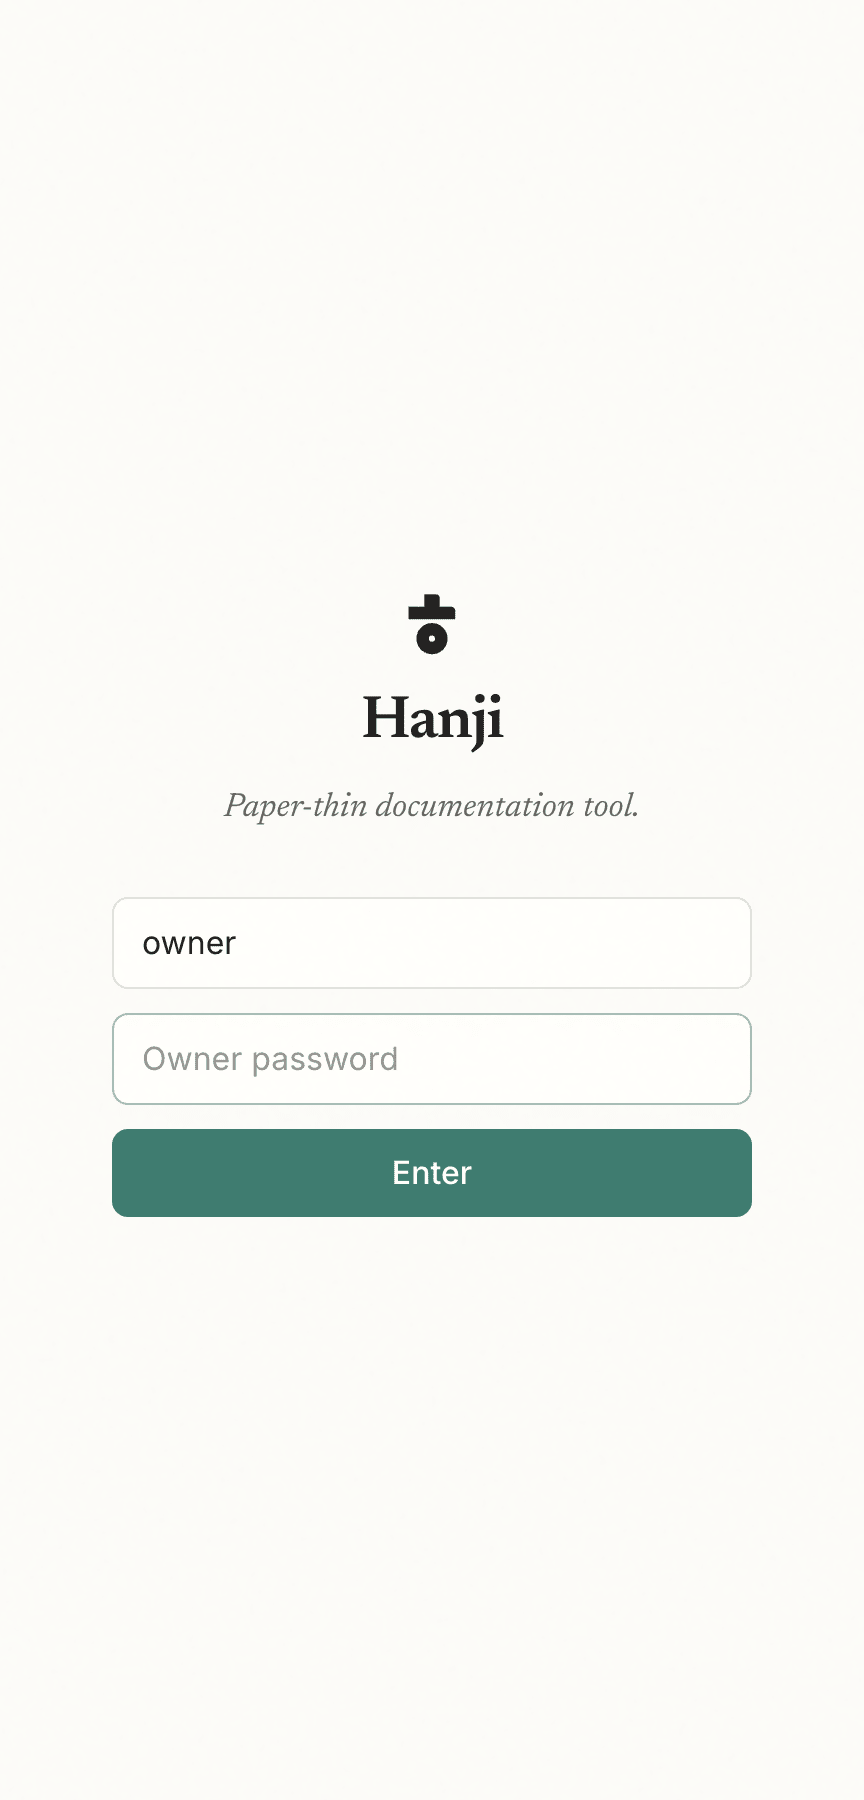
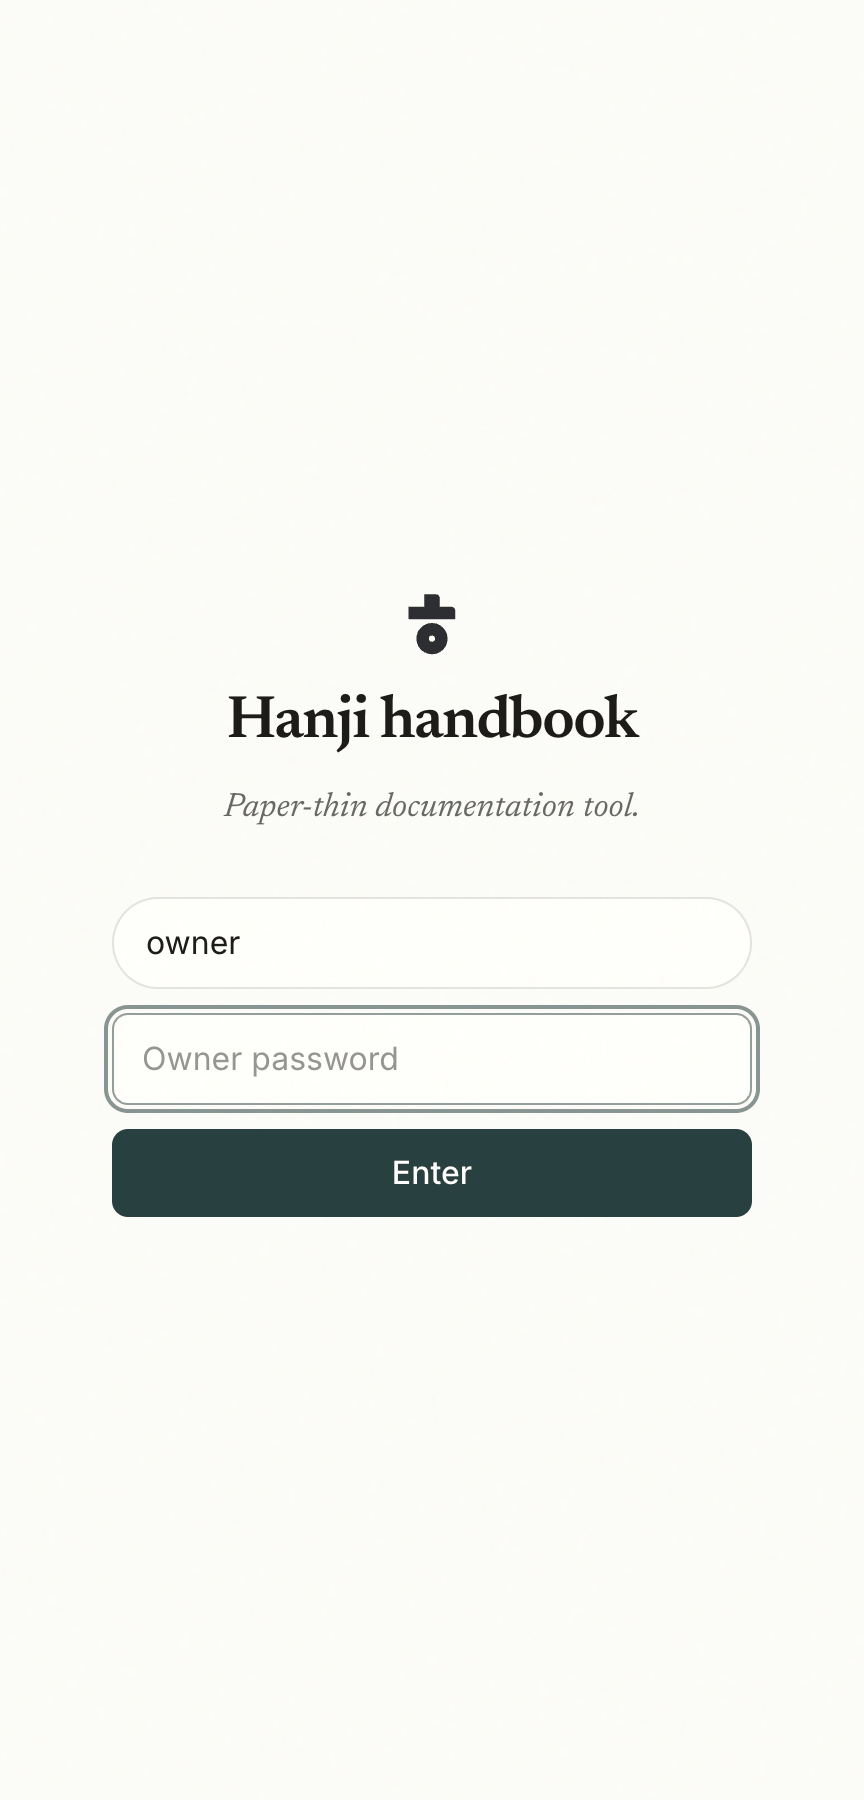
Published with Hanji

Changed region(s): [[0.0938, 0.4978, 0.9062, 0.6844], [0.25, 0.3733, 0.7188, 0.4356]]

diff --git a/handbook/changelog/index.html b/handbook/changelog/index.html
@@ -20,6 +20,31 @@
 <p class="crumbs"><a href="../">handbook</a> / changelog</p>
 <article><h1>Changelog</h1>
 <p>Reverse chronological. Struck-through text is a decision we made and then moved past, kept visible on purpose, because a changelog that hides its own wrong turns is just marketing.</p>
+<h2>Settings, in four calm rooms</h2>
+<ul>
+<li>Appearance itself found its order: <strong>Mode</strong>, <strong>Colors</strong> (light and dark palettes as quiet labeled rows), <strong>Reading font</strong>, and <strong>Reading surface</strong> - width and text size together at last, sharing one live specimen instead of each section carrying its own.</li>
+<li>The dense Customization tab split in two: <strong>General</strong> (workspace, working mode, sidebar) and <strong>Appearance</strong> (mode, colors, reading surface), beside People and Mount access. Each room saves itself; the divider between the page header and the tabs retired - space does that job.</li>
+<li>The color controls went on a diet: circular swatches, and one quiet line naming only what the contrast pass actually adjusted. <del>A per-mode card restating every color that was "kept as given"</del> - the page itself is the live preview, and a card full of nothing-happened rows was noise.</li>
+</ul>
+<h2>The sidebar finds its depth</h2>
+<ul>
+<li>The sidebar sits on its own surface now: a breath darker than the page in both modes, derived from the same background seed - panels told apart by tone, with the hairline kept only at the scroll boundary.</li>
+<li>The workspace lockup calmed down: one steady size at medium weight beside the mark, both on the same 24px line, so the pair centers optically at any name length. <del>Two sizes stepped by name length</del> - the step was why long names never quite aligned.</li>
+<li>The page's delete button joined its neighbors: the same bordered chip family as Share, with a danger tint drawn from one token that reads in both modes. <del>hover:bg-red-50</del> was a light-mode assumption glowing in the dark.</li>
+</ul>
+<h2>Night gets a personality, fields get a hand</h2>
+<ul>
+<li>Every workspace's dark background was the same cool slate, no matter what its light background said - the derivation used a constant. Auto-dark now keeps the light background's own hue at a quiet fraction of its chroma, anchored deep: a warm workspace has a warm night, a green one a green night. Detached dark seeds are untouched.</li>
+<li>Fields and dropdowns wear the full-round pill now, one silhouette and one height across the app - a small Korean hand in the chrome. Selects drop the native arrow for a quiet chevron with honest room on the right.</li>
+<li>Fewer hairlines, more air: the settings sections separate by space and their serif headings, table rows drop their per-row rules for a soft ink-tint hover, and dividers remain only where they mark a real boundary - the sidebar's scroll limits, the tab bar, the action row.</li>
+</ul>
+<h2>The details pass</h2>
+<ul>
+<li>Search snippets read as prose now: frontmatter fences, heading marks, wikilink brackets, table pipes, and backticks are quieted before display - in the palette, on the results page, and in what agents receive.</li>
+<li>Closing a sheet no longer leaves an invisible wall behind: the scrim stops catching clicks the moment the exit animation starts, so the next click lands where you aimed it.</li>
+<li>Redirects after sign-in and settings saves stay on the exact host you are on. Rebuilding them from the request could respell 127.0.0.1 as localhost, and the session cookie does not follow a respelled host.</li>
+<li>Smaller courtesies: people rows wear their initial on a small paper seal, the logo uploader lost the browser's "No file chosen" caption, the editor's source card holds its label inside itself in both modes, the emoji button became an outline glyph in the toolbar's own ink, a page with no history yet stops holding an empty seat where the byline would sit, and keyboard focus shows one quiet accent ring everywhere.</li>
+</ul>
 <h2>curl counts as an agent</h2>
 <ul>
 <li>The MCP port grew plain-HTTP aliases for all four tools: <code>GET /pages</code>, <code>GET /page</code>, <code>GET /search</code>, <code>POST /propose</code> - same bearer token, same principal, same permission check, no JSON-RPC envelope and no stream framing to parse. A cron job with curl and a token is now a first-class agent; an unknown path answers with a map of the surface.</li>

diff --git a/handbook/changelog.md b/handbook/changelog.md
@@ -8,6 +8,31 @@ description: The road behind us, honestly logged.
 
 Reverse chronological. Struck-through text is a decision we made and then moved past, kept visible on purpose, because a changelog that hides its own wrong turns is just marketing.
 
+## Settings, in four calm rooms
+
+- Appearance itself found its order: **Mode**, **Colors** (light and dark palettes as quiet labeled rows), **Reading font**, and **Reading surface** - width and text size together at last, sharing one live specimen instead of each section carrying its own.
+- The dense Customization tab split in two: **General** (workspace, working mode, sidebar) and **Appearance** (mode, colors, reading surface), beside People and Mount access. Each room saves itself; the divider between the page header and the tabs retired - space does that job.
+- The color controls went on a diet: circular swatches, and one quiet line naming only what the contrast pass actually adjusted. ~~A per-mode card restating every color that was "kept as given"~~ - the page itself is the live preview, and a card full of nothing-happened rows was noise.
+
+## The sidebar finds its depth
+
+- The sidebar sits on its own surface now: a breath darker than the page in both modes, derived from the same background seed - panels told apart by tone, with the hairline kept only at the scroll boundary.
+- The workspace lockup calmed down: one steady size at medium weight beside the mark, both on the same 24px line, so the pair centers optically at any name length. ~~Two sizes stepped by name length~~ - the step was why long names never quite aligned.
+- The page's delete button joined its neighbors: the same bordered chip family as Share, with a danger tint drawn from one token that reads in both modes. ~~hover:bg-red-50~~ was a light-mode assumption glowing in the dark.
+
+## Night gets a personality, fields get a hand
+
+- Every workspace's dark background was the same cool slate, no matter what its light background said - the derivation used a constant. Auto-dark now keeps the light background's own hue at a quiet fraction of its chroma, anchored deep: a warm workspace has a warm night, a green one a green night. Detached dark seeds are untouched.
+- Fields and dropdowns wear the full-round pill now, one silhouette and one height across the app - a small Korean hand in the chrome. Selects drop the native arrow for a quiet chevron with honest room on the right.
+- Fewer hairlines, more air: the settings sections separate by space and their serif headings, table rows drop their per-row rules for a soft ink-tint hover, and dividers remain only where they mark a real boundary - the sidebar's scroll limits, the tab bar, the action row.
+
+## The details pass
+
+- Search snippets read as prose now: frontmatter fences, heading marks, wikilink brackets, table pipes, and backticks are quieted before display - in the palette, on the results page, and in what agents receive.
+- Closing a sheet no longer leaves an invisible wall behind: the scrim stops catching clicks the moment the exit animation starts, so the next click lands where you aimed it.
+- Redirects after sign-in and settings saves stay on the exact host you are on. Rebuilding them from the request could respell 127.0.0.1 as localhost, and the session cookie does not follow a respelled host.
+- Smaller courtesies: people rows wear their initial on a small paper seal, the logo uploader lost the browser's "No file chosen" caption, the editor's source card holds its label inside itself in both modes, the emoji button became an outline glyph in the toolbar's own ink, a page with no history yet stops holding an empty seat where the byline would sit, and keyboard focus shows one quiet accent ring everywhere.
+
 ## curl counts as an agent
 
 - The MCP port grew plain-HTTP aliases for all four tools: `GET /pages`, `GET /page`, `GET /search`, `POST /propose` - same bearer token, same principal, same permission check, no JSON-RPC envelope and no stream framing to parse. A cron job with curl and a token is now a first-class agent; an unknown path answers with a map of the surface.
